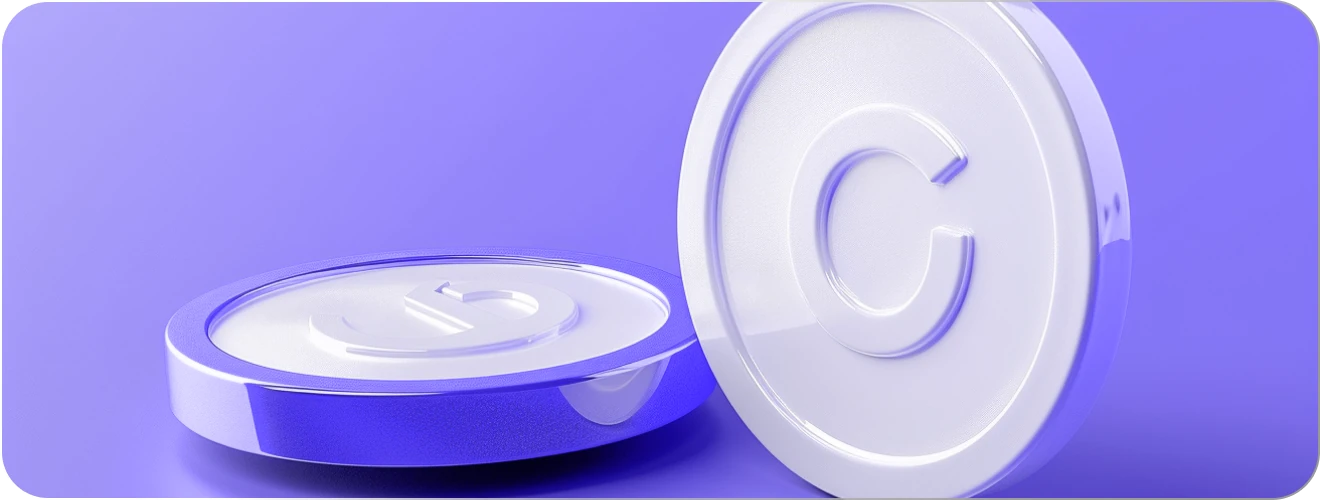
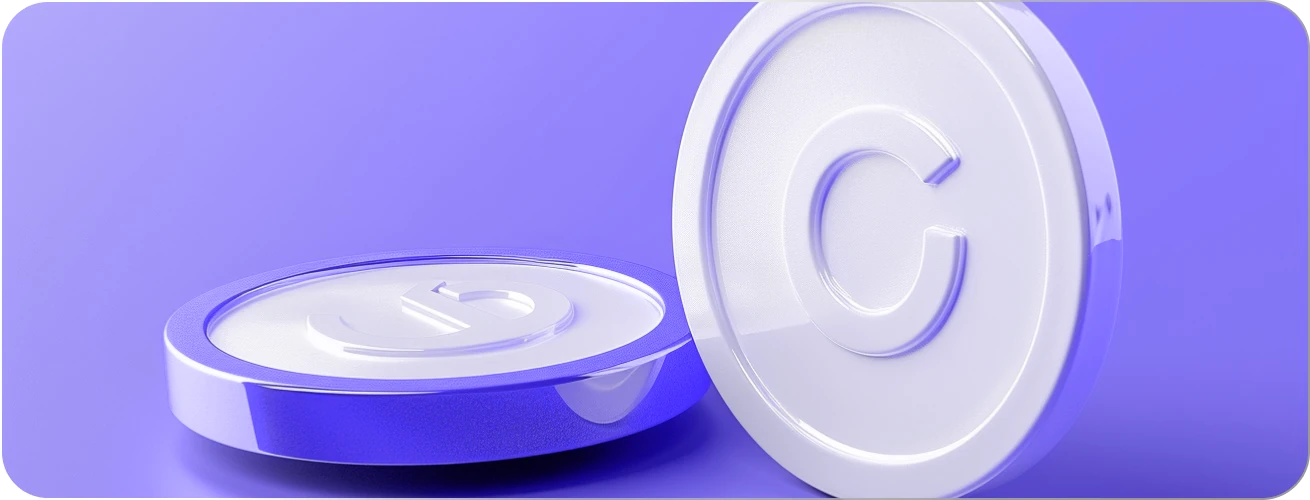
updated certification info page and minor fixes

diff --git a/assets/scss/custom.scss b/assets/scss/custom.scss
@@ -147,6 +147,13 @@ option:checked, option:hover {
     background-size: cover;
 }
 
+h1.section-title, .page-title h1{
+    font-size: 48px;
+    font-weight: 700;
+    line-height: 58px;
+    margin-bottom: 50px;
+}
+
 
 h2.section-title {
     font-size: 48px;
@@ -1822,6 +1829,14 @@ section.page-content, section.intro {
 //------------------------------------------------------------------------------
 //--- CERTIFICATION START ---
 
+#_certification .container {
+    padding: 0,
+}
+
+#_certification .section-title{
+    margin-bottom: 50px;
+}
+
 #_certification .split{
     display: flex;
     justify-content: space-between;
@@ -1844,10 +1859,11 @@ section.page-content, section.intro {
 #_certification .first .text{
     width: 540px;
     margin-top: 50px;
+    margin-right:55px,
 }
 
 #_certification .first .image {
-    width: 660px;
+    width: 655px;
 }
 
 #_certification .second .image {
@@ -1855,9 +1871,9 @@ section.page-content, section.intro {
 }
 
 #_certification .second .text{
-    width: 550px;
+    width: 610px;
     margin-top: 30px;
-    margin-left: 55px;
+    //margin-left: 55px;
 }
 
 #_certification .third .title h2{

diff --git a/themes/dedoai/layouts/partials/pages/certification.html b/themes/dedoai/layouts/partials/pages/certification.html
@@ -1,23 +1,23 @@
 {{- $_ := .Page.Params -}}
 <div class="container">
-    
+
     {{with $_.sec_1}}
     <div class="sect split first">
-        <div class="text">
-            <h1 class="title">{{.title}}</h1>
-            <p>{{.text}}</p>
-        </div>
-        <div class="image" style="background-image:url('{{.img}}')"></div>
-    </div>
-    {{end}}
-    
-    {{with $_.sec_2}}
-    <div class="sect split second">
         <div class="image" style="background-image:url('{{.img}}')"></div>
         <div class="text">
             <h2 class="title">{{.title}}</h2>
             <p>{{.text}}</p>
         </div>
+    </div>
+    {{end}}
+    
+    {{with $_.sec_2}}
+    <div class="sect split second">
+        <div class="text">
+            <h2 class="title">{{.title}}</h2>
+            <p>{{.text}}</p>
+        </div>
+        <div class="image" style="background-image:url('{{.img}}')"></div>
     </div>
     {{end}}
     

diff --git a/themes/dedoai/layouts/partials/common/page-header_old.html b/themes/dedoai/layouts/partials/common/page-header_old.html
@@ -1,6 +1,6 @@
 {{ with .Page.Params.noheader }}{{else}}
 <section id="page-header">
-  <div class="container">
+  <div class="container text-center">
     <div class="page-title">
       <h1>{{ i18n (printf "%s" (lower .Title)) | default .Title | title }}</h1>
     </div>

diff --git a/content/en/certification.md b/content/en/certification.md
@@ -4,7 +4,6 @@ meta_title: "dedoAI | Certification Info"
 description: "When Producers sell their datasets, they sign a copyright transfer agreement, granting Consumers the rights to the purchased datasets. Supported by DEDO Tokens, these contracts ensure a clear and traceable transfer of rights, protecting both Producers and Consumers."
 date: 2024-07-23T06:00:00.000Z
 draft: false
-noheader: true
 
 sec_1:
   title: Copyright Guarantee

diff --git a/content/en/value.md b/content/en/value.md
@@ -1,7 +1,7 @@
 ---
 title: "Value of DedoAI Token"
 meta_title: "dedoAI | Value of DedoAI Token"
-description: "Th Value of DedoAI Token"
+description: "The Value of DedoAI Token"
 date: 2024-07-16T06:00:00.000Z
 draft: false
 noheader: true
